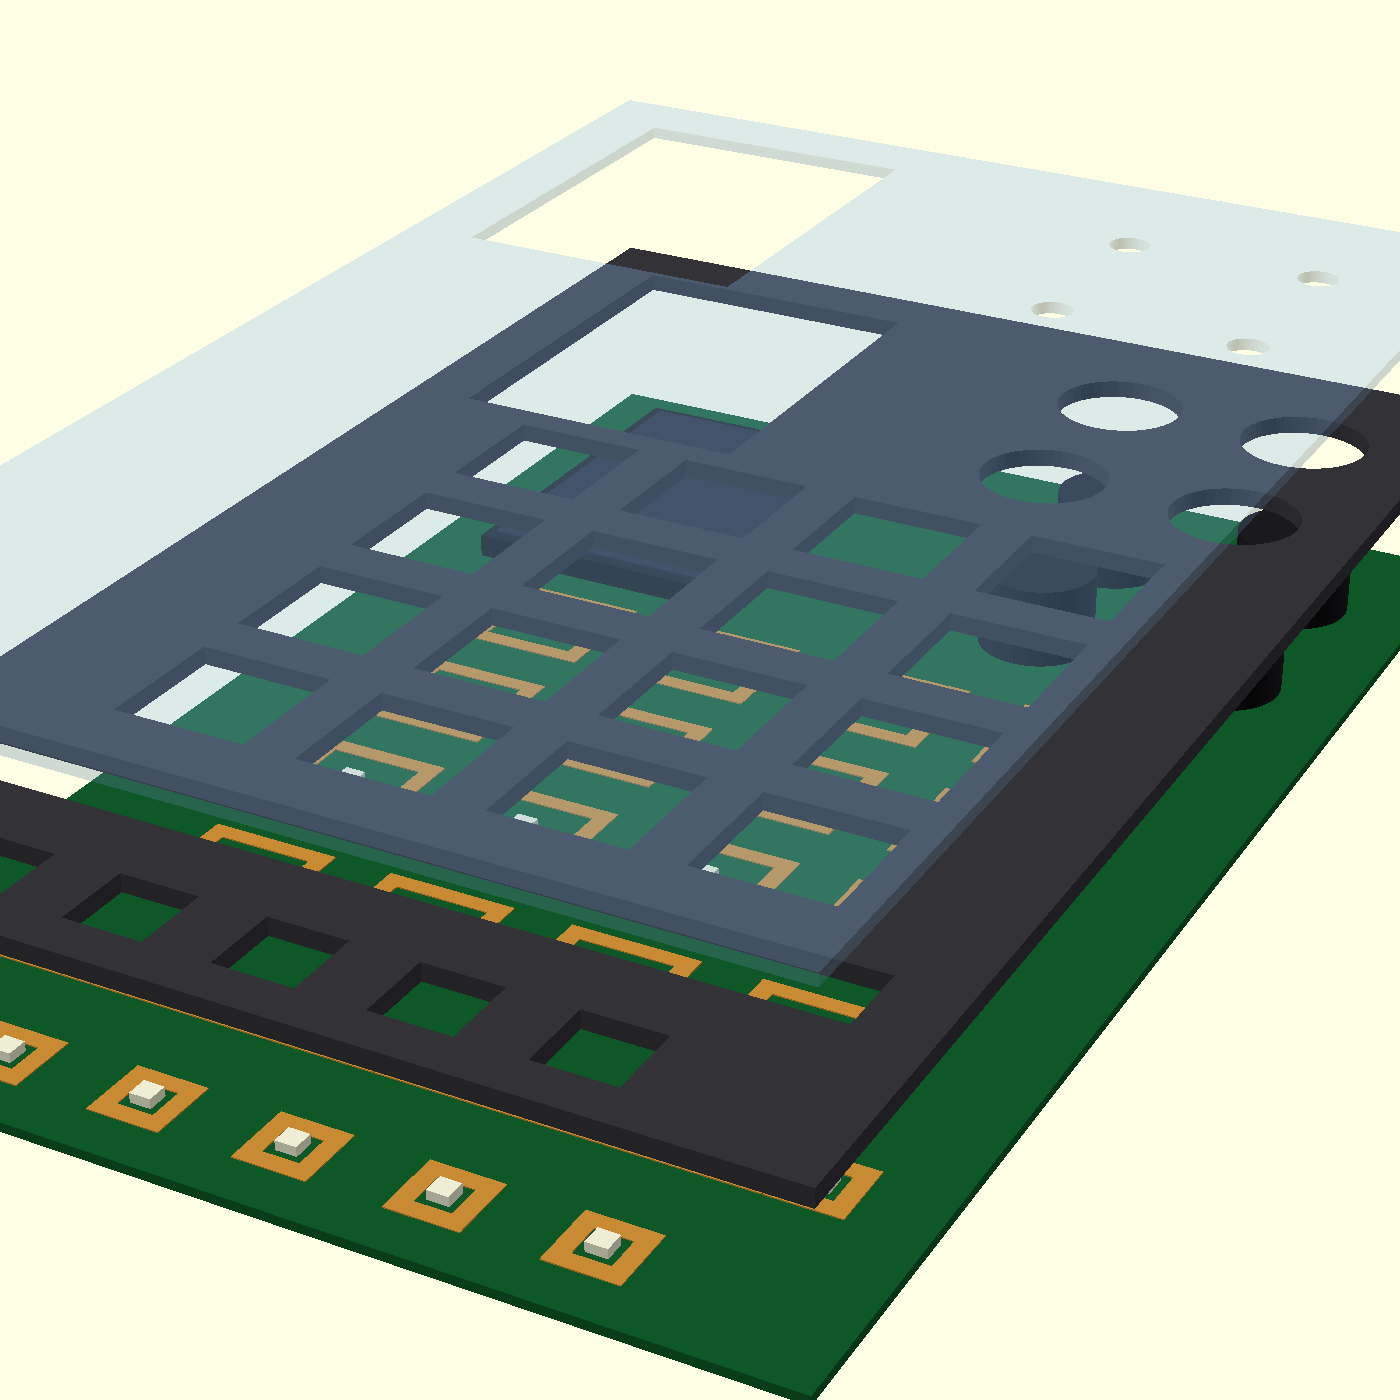
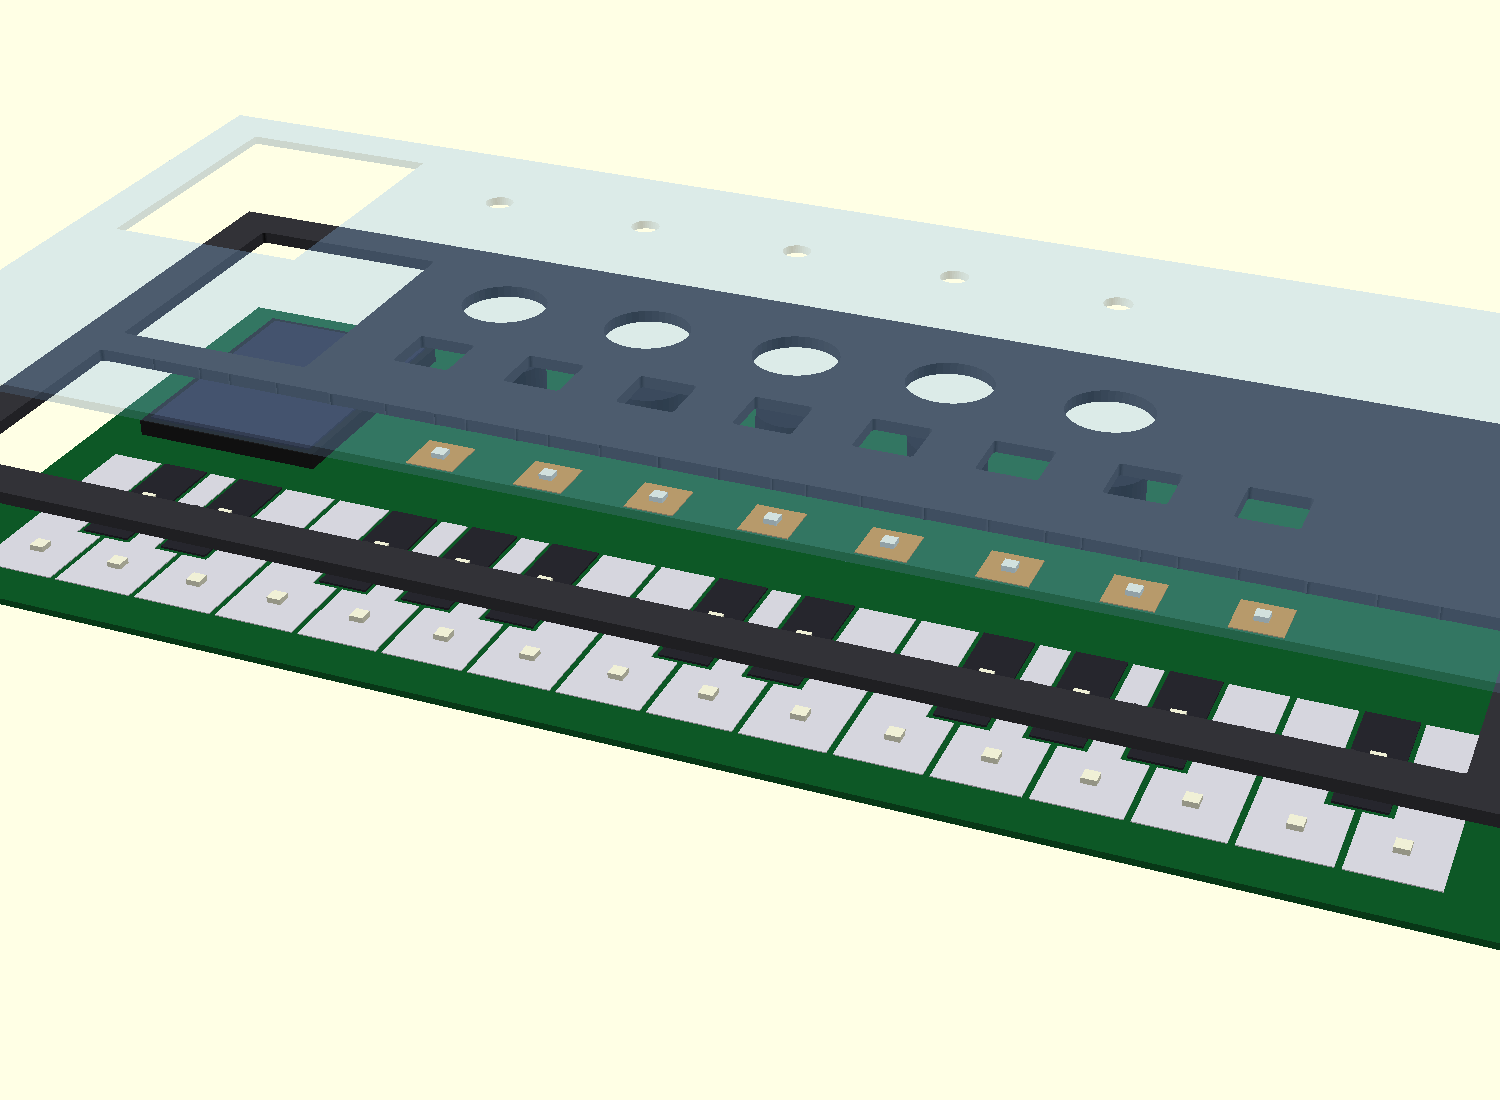
Méca : façade refondue sur la VISION (clavier piano) + côtes paramétriques
- Layout = surface de contrôle VISION (VST §3) : clavier PIANO 27 touches
  (16 blanches notchées + 11 noires), 5 encodeurs, 8 boutons, écran 3,2".
  Remplace l'hypothèse 4x4 (hors-sujet ergo).
- Côtes paramétriques (module cote_h/cote_v) auto-lues des variables,
  rendues au-dessus du modèle (W, H, clavier, blanche/pitch, noire, écran, enc).
- Façade calculée ~368x160 mm (format clavier large).

diff --git a/mechanical/README.md b/mechanical/README.md
@@ -16,19 +16,16 @@ OpenSCAD (installé via `brew install --cask openscad`). Binaire : `openscad`.
 ```sh
 cd mechanical
 
-# Vue éclatée (montre les 3 couches)
-openscad -o facade_explode.png --imgsize=1400,1400 \
-  --camera=85,131,15,62,0,28,560 -D 'explode=28' facade.scad
+# Vue de dessus + côtes (layout façade)
+openscad -o facade_top.png --imgsize=1900,1050 --projection=p \
+  --camera=184,75,0,0,0,0,650 -D 'show_dims=true' -D 'explode=0' facade.scad
 
-# Vue assemblée
-openscad -o facade_assembled.png --imgsize=1400,1400 \
-  --camera=85,131,15,62,0,28,560 -D 'explode=0' facade.scad
-
-# Vue de dessus (layout façade)
-openscad -o facade_top.png --imgsize=1000,1500 \
-  --camera=85,131,0,0,0,0,640 --projection=p -D 'explode=0' facade.scad
+# Vue éclatée (montre les 3 couches), sans côtes
+openscad -o facade_explode.png --imgsize=1500,1100 \
+  --camera=184,72,10,60,0,22,640 -D 'show_dims=false' -D 'explode=26' facade.scad
 ```
 `explode` : 0 = assemblé, >0 = écarte les couches en Z.
+`show_dims` : true = affiche les côtes paramétriques (auto-lues des variables).
 
 ## Édition interactive
 Ouvrir `facade.scad` dans l'app OpenSCAD → fenêtre de preview, on tourne/zoome,
